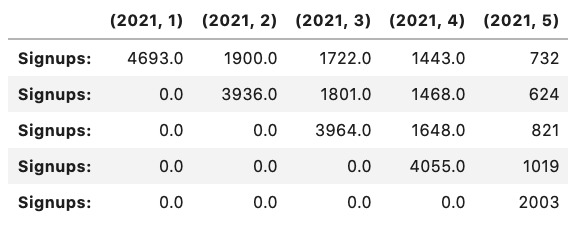
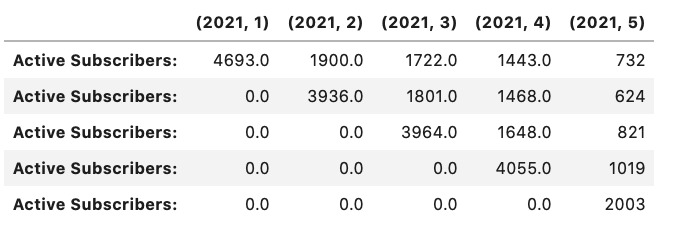
updated images

diff --git a/Cohort_LTV_Analysis.py b/Cohort_LTV_Analysis.py
@@ -50,7 +50,7 @@ def cohort_signups_pyramid(settled_data, adds_data, signup_data):
             ck_list.append(len(next_ck))
             ck_dict[pym] = len(next_ck)
 
-        df = pd.DataFrame(ck_dict, index=['Signups:'], columns=list(ck_dict.keys()))
+        df = pd.DataFrame(ck_dict, index=['Active Subscribers:'], columns=list(ck_dict.keys()))
         return df
 
     settled_data['pym'] = settled_data['pym'].astype(str)
@@ -138,11 +138,11 @@ while x <= 12:
 print('\n\n')
 
 # Calculating Cohort Lifetime Value Tables
-signups_pyramid = cohort_signups_pyramid(sample_payment_data, sample_adds_data, sample_signups_data).fillna(0)
+active_subscribers_pyramid = cohort_signups_pyramid(sample_payment_data, sample_adds_data, sample_signups_data).fillna(0)
 revenue_pyramid = cohort_revenue_pyramid(sample_payment_data, sample_adds_data, sample_signups_data).fillna(0)
 ARPU_pyramid = revenue_pyramid.div(signups_pyramid.values).fillna(0)
 ARPU_pyramid.rename(index={'Revenue:':'ARPU:'}, inplace=True)
 
-print(signups_pyramid, '\n\n')
+print(active_subscribers_pyramid, '\n\n')
 print(revenue_pyramid, '\n\n')
 print(ARPU_pyramid)
